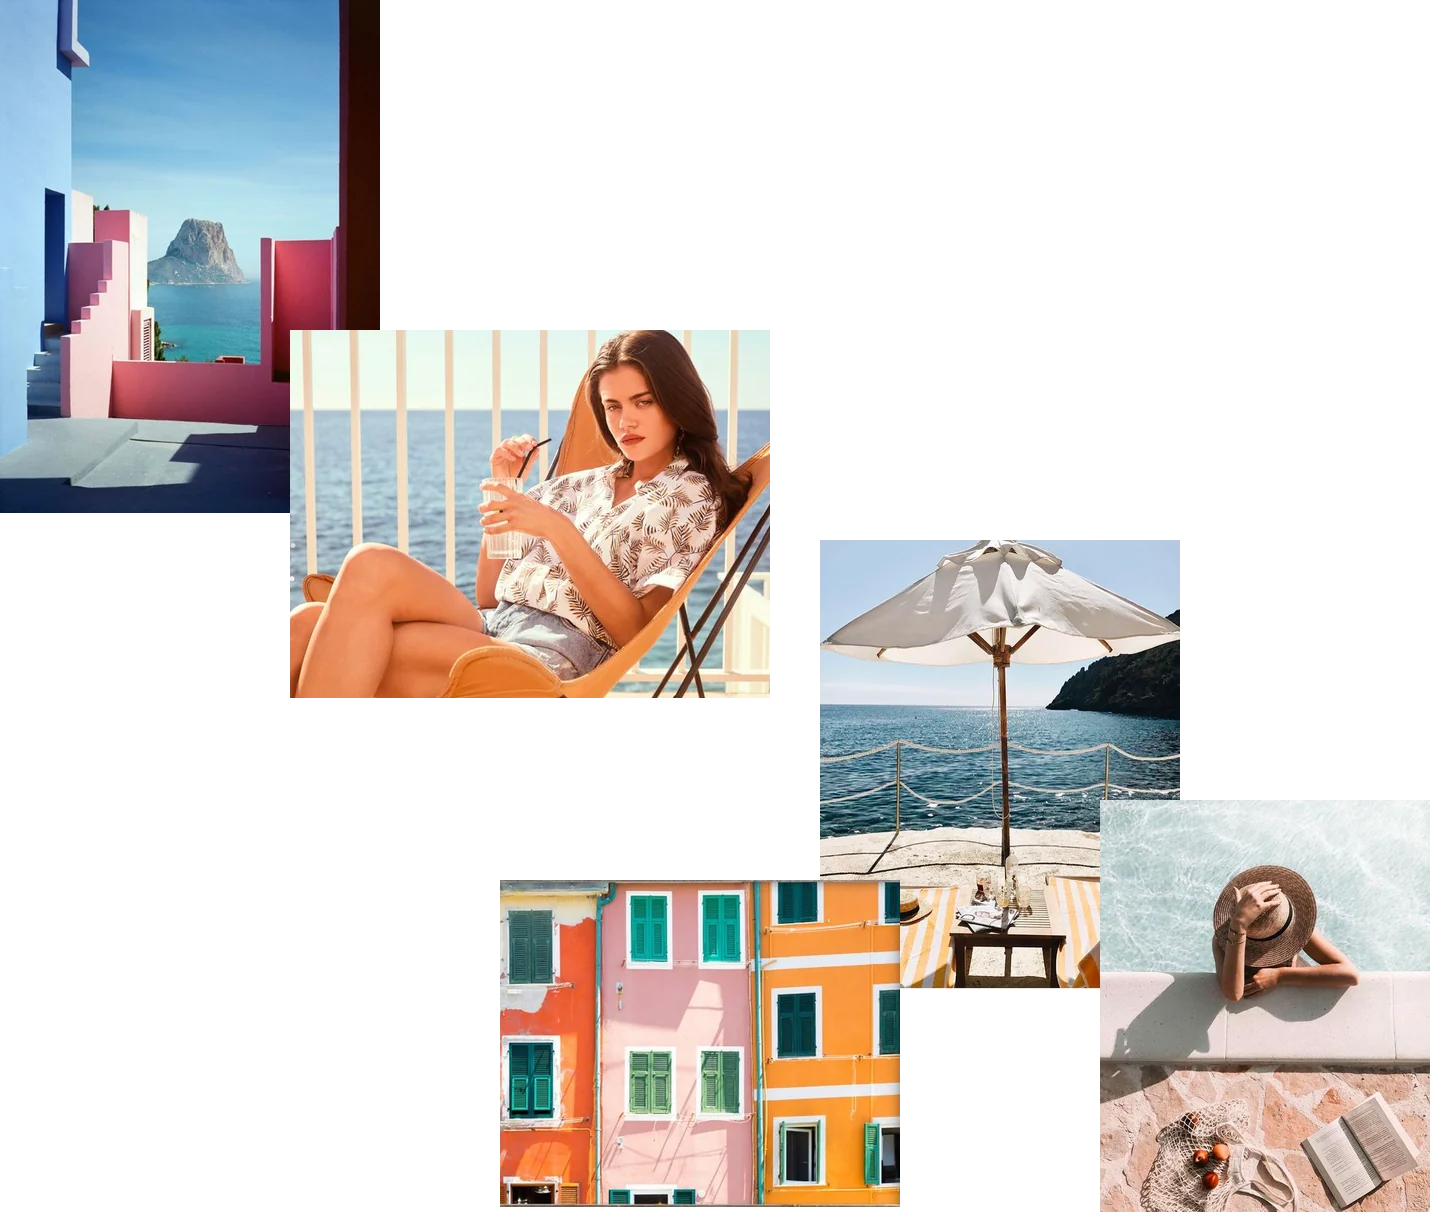
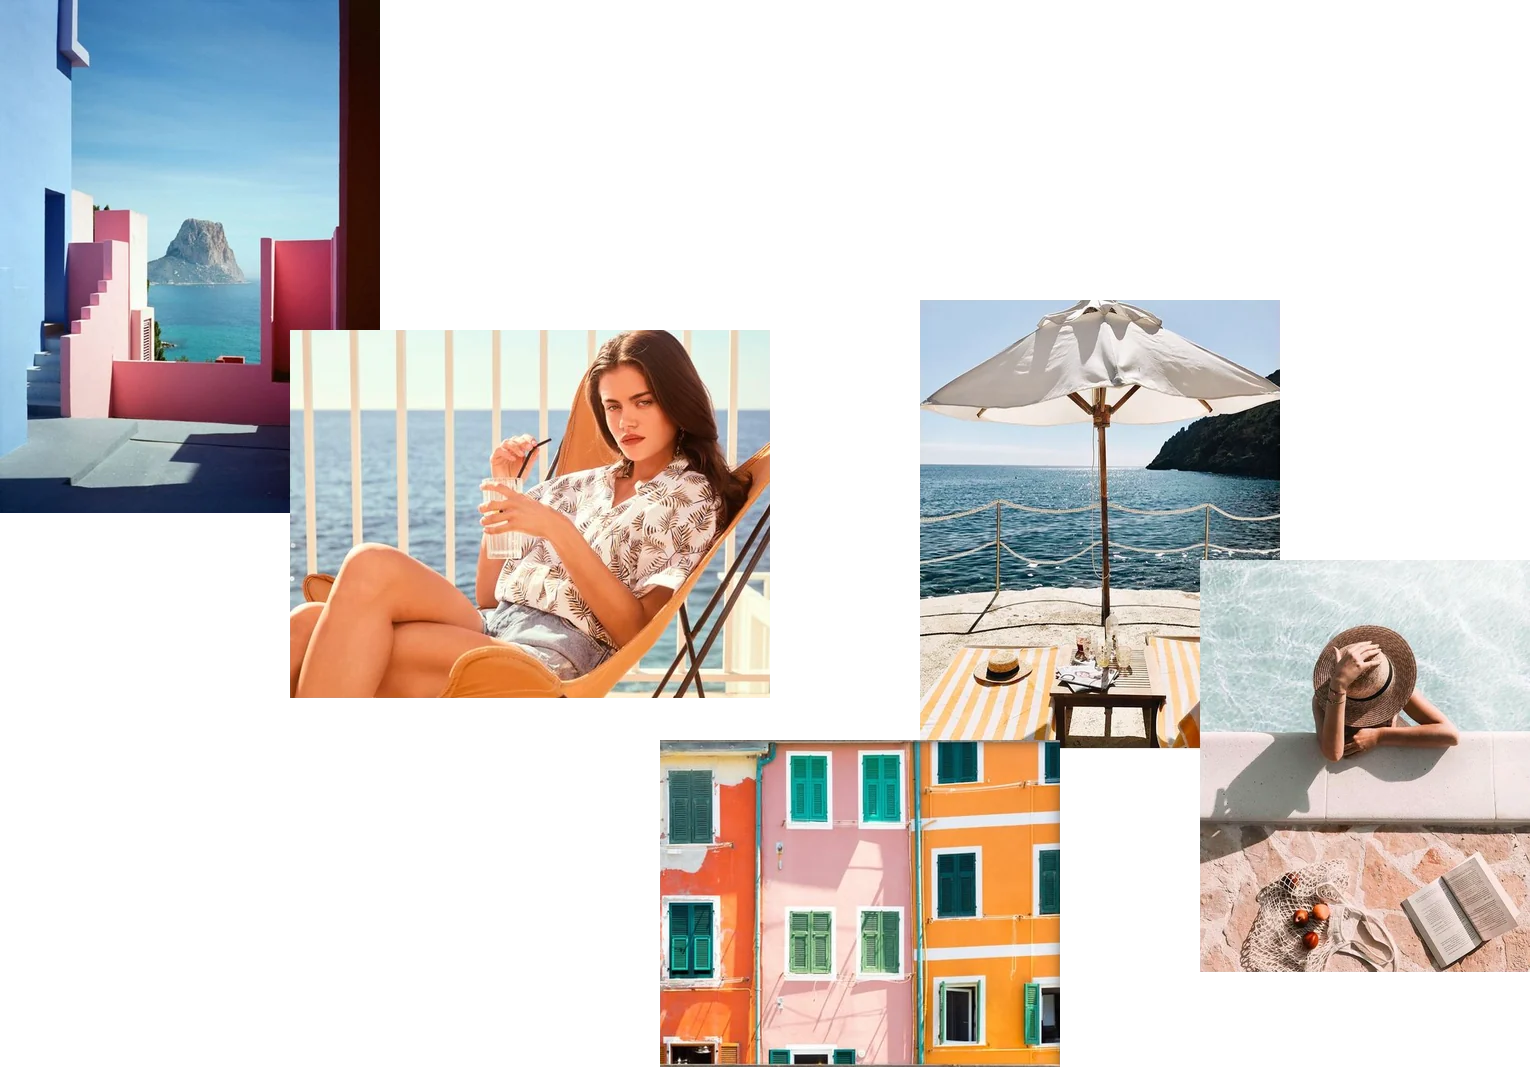
Lancaster : moodboard Tell plus paysage
Claude-Session: https://claude.ai/code/session_01TzkrsKnutAh2YQEZf65EBJ

diff --git a/index.html b/index.html
@@ -2388,7 +2388,7 @@ const PROJECTS = [
    {
     "tell": {
      "t": "A summer by the Mediterranean, in the store.",
-     "wide": false,
+     "wide": true,
      "rows": [
       [
        "Material",
